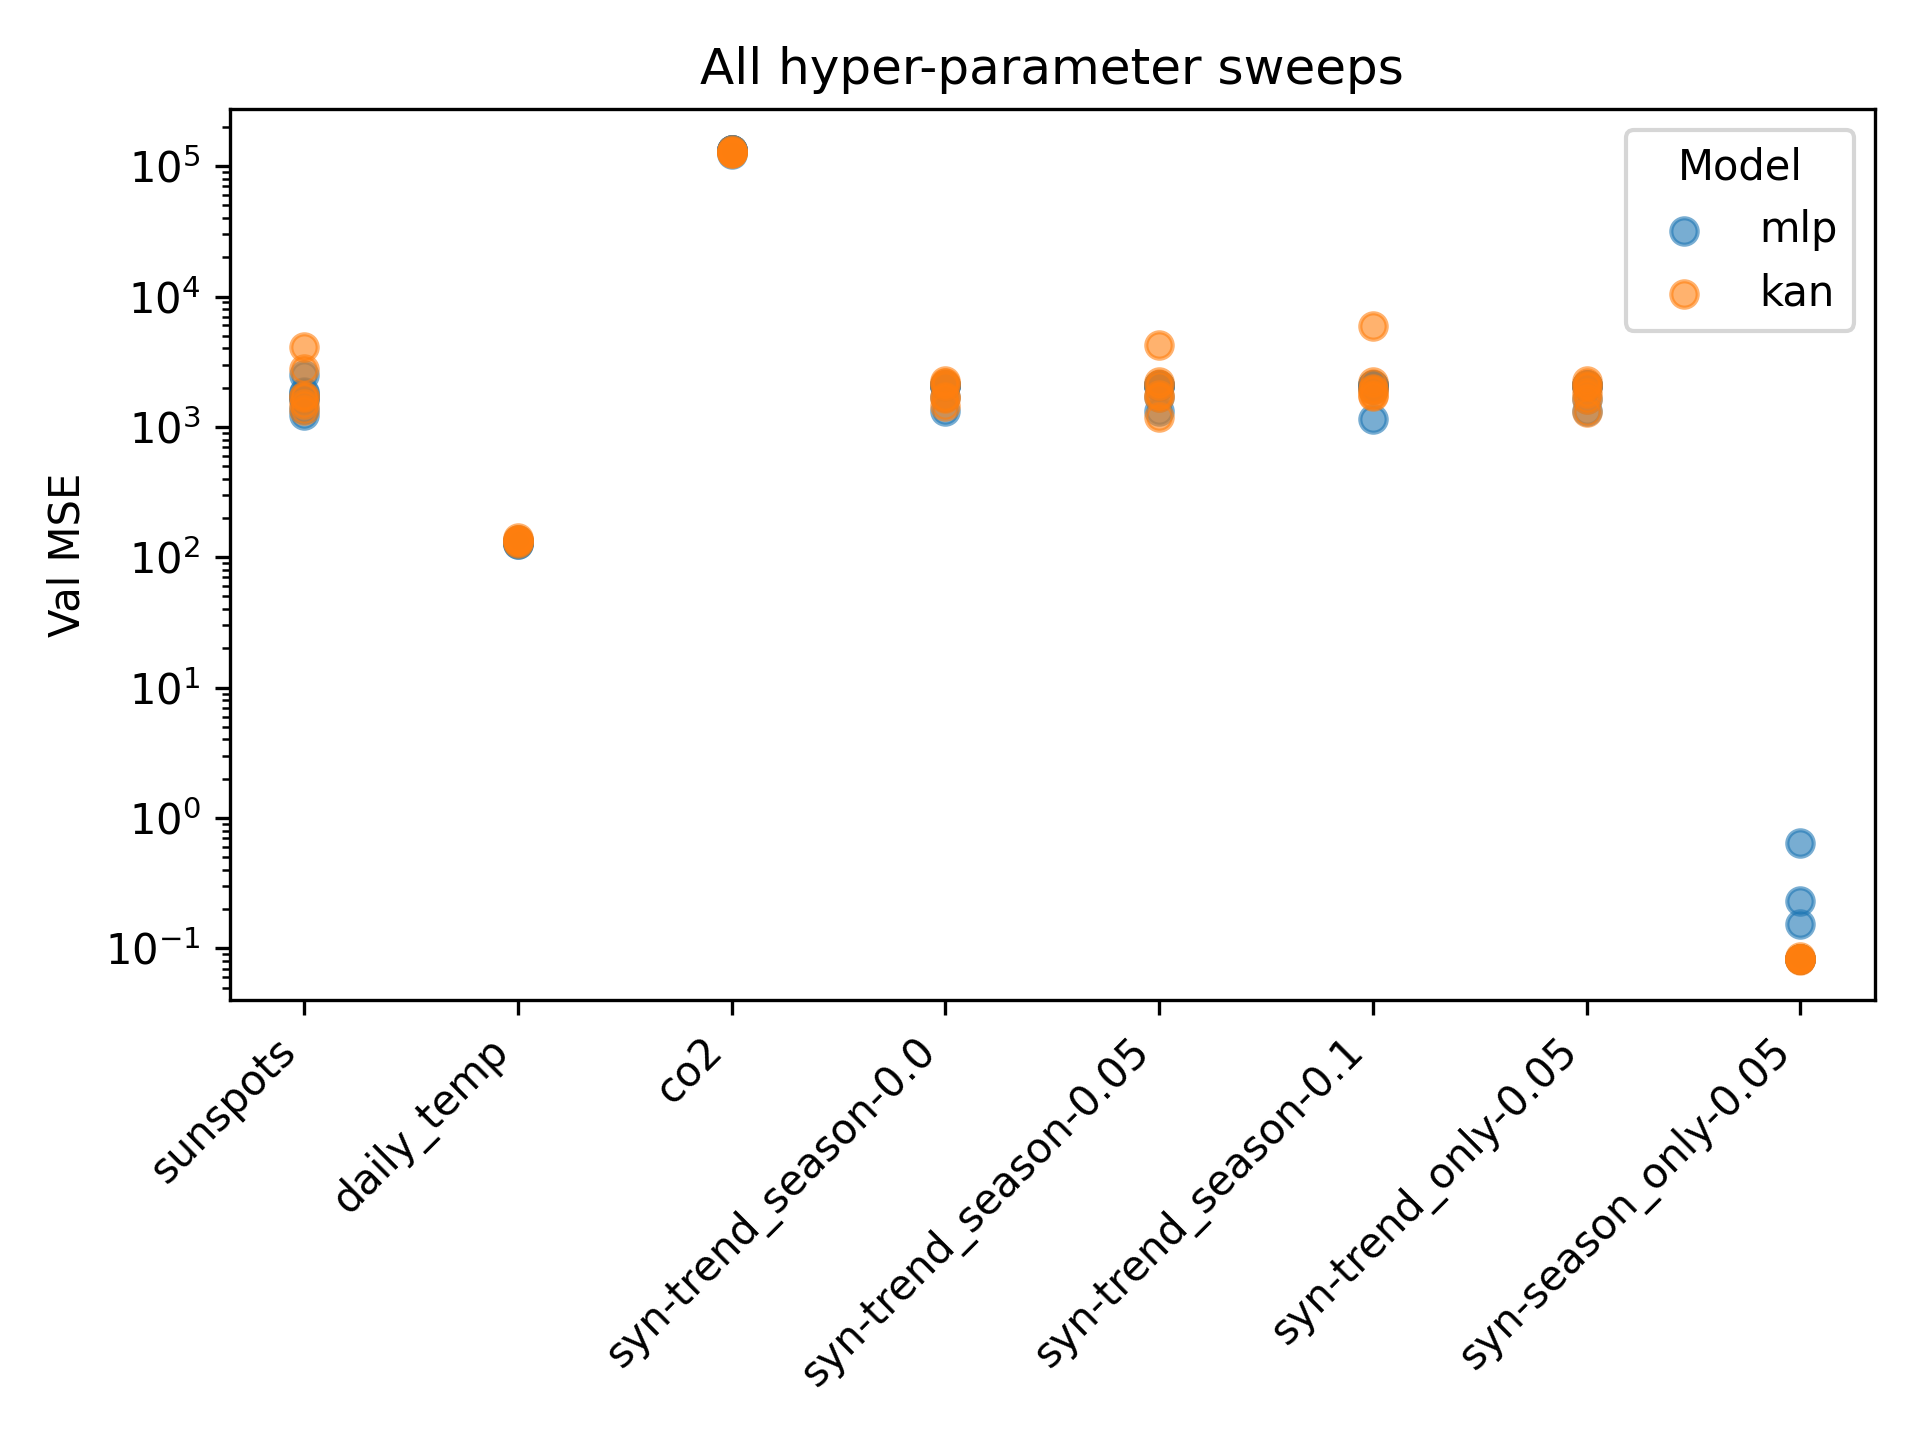
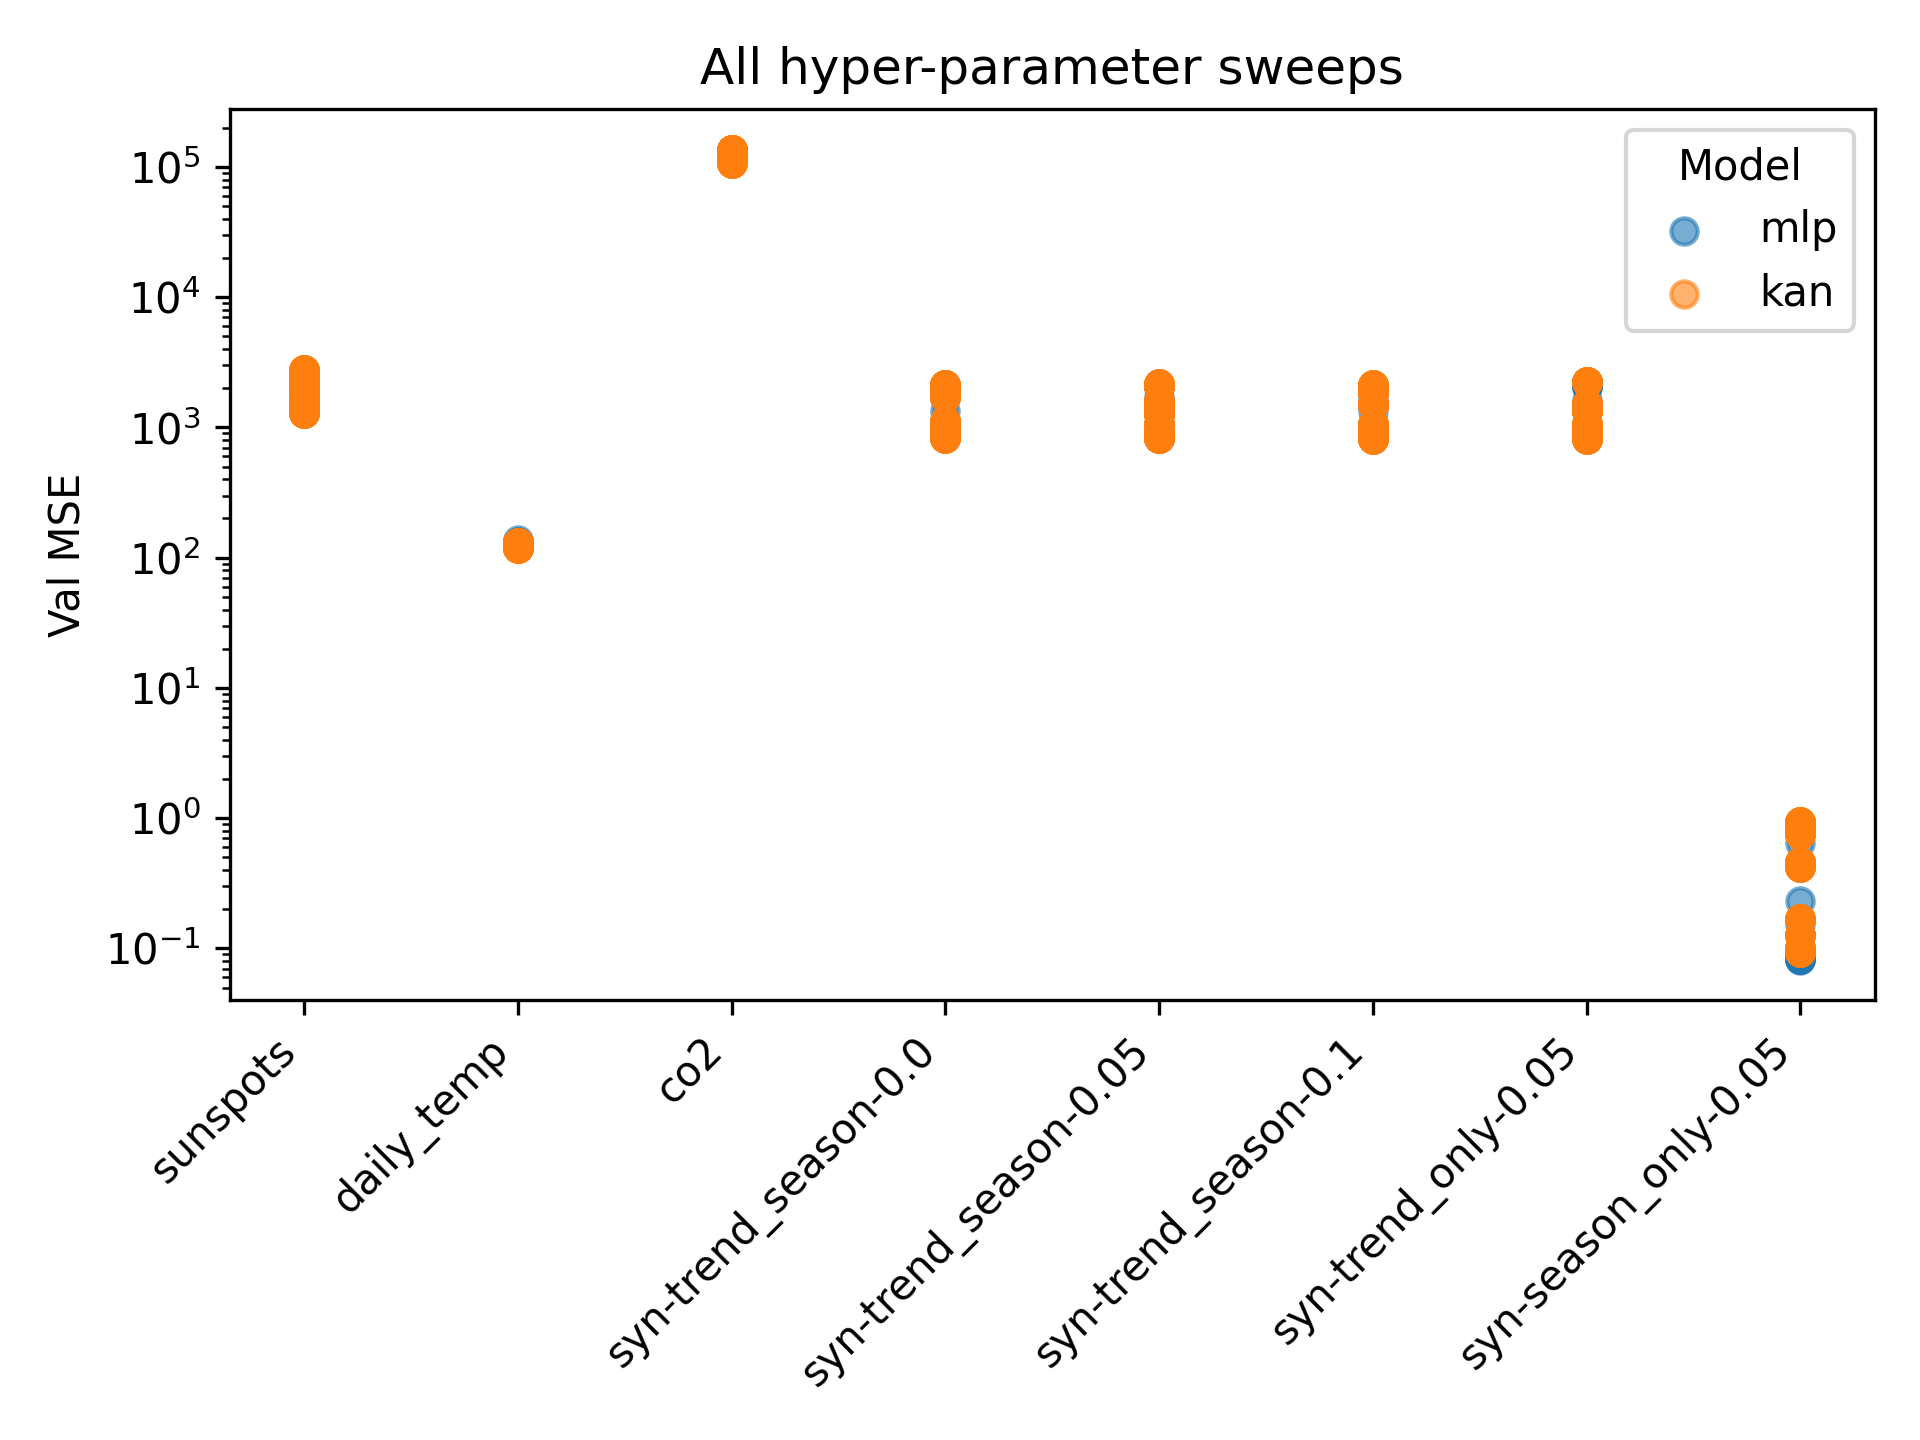
made code more readable, added more hps

diff --git a/scripts/grid_run.py b/scripts/grid_run.py
@@ -2,10 +2,12 @@ from pathlib import Path
 import json
 import numpy as np
 import pandas as pd
+import torch
+import seaborn as sns
+import matplotlib.pyplot as plt
 from sklearn.metrics import mean_squared_error
-from config.hyperparameters import (
-    INPUT_LEN, PRED_LEN, MLP_SEARCH, KAN_SEARCH
-)
+
+from config.hyperparameters import INPUT_LEN, PRED_LEN, MLP_SEARCH, KAN_SEARCH
 from config.datasets import REAL_DATASETS, SYN_SPECS
 from data_pipeline.real_data import load_small_dataset
 from data_pipeline.data_creation import load_synthetic
@@ -14,27 +16,30 @@ from data_pipeline.splits import chronological_split
 from models.mlp_model import MLP
 from kan import KAN
 from models.train_test import train_mlp, train_kan
-import torch 
-import seaborn as sns
-import matplotlib.pyplot as plt
 
 
-# ---------- helpers ---------------------------------------------------------
+# ---------- Helpers ---------------------------------------------------------
+
 def _load_dataset(name: str):
-    import pandas as pd
-
     if name in REAL_DATASETS:
         series = load_small_dataset(name).squeeze()
         return pd.DataFrame({"y": series})
-
     _, kind, noise = name.split("-", 2)
     return load_synthetic(kind=kind, noise_std=float(noise))
+
+def _normalize(X, y):
+    X_mean = X.mean(axis=0)
+    X_std = X.std(axis=0) + 1e-6
+    y_mean = y.mean()
+    y_std = y.std() + 1e-6
+    X_norm = (X - X_mean) / X_std
+    y_norm = (y - y_mean) / y_std
+    return X_norm, y_norm, X_mean, X_std, y_mean, y_std
 
 
 def _evaluate(model, X_te, y_te, y_mean, y_std):
     if hasattr(model, "eval") and callable(model.eval):
         model.eval()
-
     with torch.no_grad():
         preds = model(torch.as_tensor(X_te, dtype=torch.float32)).cpu().numpy()
     preds = preds * y_std + y_mean
@@ -47,96 +52,59 @@ def save_kan_activations(kan_model, save_path: Path):
         scale=0.5,
         varscale=1.0
     )
-    
 
-# ---------- main loop -------------------------------------------------------
-def main():
-    out_dir = Path(__file__).resolve().parents[1] / "results" / "batch"
-    out_dir.mkdir(parents=True, exist_ok=True)
+def run_mlp_search(X, y, y_mean, y_std, ds_name):
+    results = []
+    for hp in MLP_SEARCH:
+        (X_tr, y_tr), (X_val, y_val), (X_te, y_te) = chronological_split(X, y)
+        mlp = MLP([INPUT_LEN, *hp["hidden"], PRED_LEN])
+        print(f"Running {ds_name} | mlp | {hp}")
+        _, _, trained = train_mlp(mlp, X_tr, y_tr, X_val, y_val, epochs=hp["epochs"], lr=hp["lr"])
+        mse = _evaluate(trained, X_te, y_te, y_mean, y_std)
+        results.append({"dataset": ds_name, "model": "mlp", "mse": mse, "params": hp})
+    return results
 
-    datasets = (
-        REAL_DATASETS +
-        [f"syn-{kind}-{noise}" for (kind, noise) in SYN_SPECS]
-    )
 
-    rows = []
+def run_kan_search(X, y, y_mean, y_std, ds_name):
+    results = []
+    for hp in KAN_SEARCH:
+        (X_tr, y_tr), (X_val, y_val), (X_te, y_te) = chronological_split(X, y)
+        kan = KAN(
+            width=[INPUT_LEN, *hp["hidden"], PRED_LEN],
+            grid=hp["grid"],
+            k=hp["k"],
+            symbolic_enabled=False
+        )
+        print(f"Running {ds_name} | kan | {hp}")
+        _, _, trained = train_kan(
+            kan, X_tr, y_tr, X_val, y_val,
+            steps=hp["epochs"],
+            lr=hp["lr"],
+            lamb_l1=hp["lamb_l1"],
+            lamb_entropy=hp["lamb_entropy"]
+        )
+        trained.prune()
+        # ------------Saving splines (takes a lot of time)--------------
+        # hp_str = (
+        #     f"epochs_{hp['epochs']}_grid_{hp['grid']}_k_{hp['k']}_hidden_" +
+        #     "_".join(map(str, hp['hidden']))
+        # )
+        # save_path = out_dir / "activations" / ds_name / hp_str
+        # save_kan_activations(trained, save_path)
+        mse = _evaluate(trained, X_te, y_te, y_mean, y_std)
+        results.append({"dataset": ds_name, "model": "kan", "mse": mse, "params": hp})
+    return results
 
-    for ds_name in datasets:
-        df = _load_dataset(ds_name)
-        X, y = create_windows(df, input_len=INPUT_LEN, pred_len=PRED_LEN)
-        X_mean = X.mean(axis=0) # added normalization to combat NaN's by Adam, I suspect there was something wrong with the gradients
-        X_std = X.std(axis=0) + 1e-6
-        X = (X - X_mean) / X_std
-        y_mean = y.mean()
-        y_std = y.std() + 1e-6
-        y = (y - y_mean) / y_std
-        # ---------- MLP sweep ----------
-        for hp in MLP_SEARCH:
-            (X_tr, y_tr), (X_val, y_val), (X_te, y_te) = chronological_split(X, y)
 
-            mlp = MLP([INPUT_LEN, *hp["hidden"], PRED_LEN])
-            print(f"Running {ds_name} | mlp | {hp}")
-            _, _, trained = train_mlp(
-                mlp, X_tr, y_tr, X_val, y_val,
-                epochs=hp["epochs"], lr=hp["lr"]
-            )
-            mse = _evaluate(trained, X_te, y_te, y_mean, y_std)
-
-            rows.append({
-                "dataset": ds_name,
-                "model":   "mlp",
-                "mse":     mse,
-                "params":  hp
-            })
-
-        # ---------- KAN sweep ----------
-        for hp in KAN_SEARCH:
-            (X_tr, y_tr), (X_val, y_val), (X_te, y_te) = chronological_split(X, y)
-
-            kan = KAN(
-                width=[INPUT_LEN, *hp["hidden"], PRED_LEN],
-                grid=hp["grid"],
-                k=hp["k"],
-                symbolic_enabled=False
-            )
-            print(f"Running {ds_name} | kan | {hp}")
-            _, _, trained = train_kan(
-                kan, X_tr, y_tr, X_val, y_val,
-                steps=hp["epochs"]
-            )
-            trained.prune()
-            #------------Saving splines (takes a lot of time)--------------
-            # hp_str = f"epochs_{hp['epochs']}_grid_{hp['grid']}_k_{hp['k']}_hidden_" + "_".join(map(str, hp['hidden']))
-            # save_path = out_dir / "activations" / ds_name / hp_str
-            # save_path.mkdir(parents=True, exist_ok=True)
-            # save_kan_activations(trained, save_path)
-
-            mse = _evaluate(trained, X_te, y_te, y_mean, y_std)
-
-            rows.append({
-                "dataset": ds_name,
-                "model":   "kan",
-                "mse":     mse,
-                "params":  hp
-            })
-
-    # ---------- save structured results -------------------------------------
-    df = pd.DataFrame(rows)
-    df.to_csv(out_dir / "grid_results.csv", index=False)
-
-    # one *_BEST.json per (dataset, model)
+def save_best_results(df, out_dir):
     for (ds, mdl), grp in df.groupby(["dataset", "model"]):
         best = grp.sort_values("mse").iloc[0].to_dict()
         with open(out_dir / f"{ds}_{mdl}_BEST.json", "w") as f:
             json.dump(best, f, indent=2)
 
-    # 1) BEST result per (dataset, model)  ────────────────────────────────
-    best_df = (
-        df.groupby(["dataset", "model"])["mse"]
-          .min()                       # best (lowest) MSE
-          .unstack()                  # cols = model, rows = dataset
-          .sort_index()               # keep datasets in alpha order
-    )
+
+def plot_results(df, out_dir):
+    best_df = df.groupby(["dataset", "model"])["mse"].min().unstack().sort_index()
 
     ax = best_df.plot(kind="bar", rot=45, log=True)
     ax.set_ylabel("Val MSE  ↓ better")
@@ -145,13 +113,10 @@ def main():
     plt.savefig(out_dir / "grid_results_best.png", dpi=300)
     plt.close()
 
-    # 2) *All* runs at once  ──────────────────────────────────────────────
     fig, ax = plt.subplots()
     for model in df["model"].unique():
         subset = df[df["model"] == model]
-        ax.scatter(subset["dataset"], subset["mse"],
-                label=model, alpha=0.6, s=40)
-
+        ax.scatter(subset["dataset"], subset["mse"], label=model, alpha=0.6, s=40)
     ax.set_ylabel("Val MSE")
     ax.set_title("All hyper-parameter sweeps")
     ax.set_yscale("log")
@@ -161,23 +126,38 @@ def main():
     plt.savefig(out_dir / "grid_results_all.png", dpi=300)
     plt.close()
 
-    ratio = (
-        best_df["kan"] / best_df["mlp"]
-    ).rename("KAN ÷ MLP")
-
+    ratio = (best_df["kan"] / best_df["mlp"]).rename("KAN ÷ MLP")
     plt.figure(figsize=(6, len(ratio) * 0.4))
-    sns.heatmap(
-        ratio.to_frame().T,
-        annot=True,
-        fmt=".2f",
-        cmap="RdYlGn_r",
-        cbar=False
-    )
+    sns.heatmap(ratio.to_frame().T, annot=True, fmt=".2f", cmap="RdYlGn_r", cbar=False)
     plt.yticks(rotation=0)
     plt.title("Relative val MSE (KAN ÷ MLP)")
     plt.tight_layout()
     plt.savefig(out_dir / "grid_results_ratio_heatmap.png", dpi=300)
     plt.close()
+
+
+# ---------- Main Script -----------------------------------------------------
+
+def main():
+    out_dir = Path(__file__).resolve().parents[1] / "results" / "batch"
+    out_dir.mkdir(parents=True, exist_ok=True)
+
+    datasets = REAL_DATASETS + [f"syn-{kind}-{noise}" for (kind, noise) in SYN_SPECS]
+    all_results = []
+
+    for ds_name in datasets:
+        df = _load_dataset(ds_name)
+        X, y = create_windows(df, input_len=INPUT_LEN, pred_len=PRED_LEN)
+        X, y, X_mean, X_std, y_mean, y_std = _normalize(X, y)
+
+        all_results += run_mlp_search(X, y, y_mean, y_std, ds_name)
+        all_results += run_kan_search(X, y, y_mean, y_std, ds_name)
+
+    df = pd.DataFrame(all_results)
+    df.to_csv(out_dir / "grid_results.csv", index=False)
+
+    save_best_results(df, out_dir)
+    plot_results(df, out_dir)
 
 
 if __name__ == "__main__":

diff --git a/models/train_test.py b/models/train_test.py
@@ -28,12 +28,19 @@ def train_mlp(model, Xtr, ytr, Xval, yval, *, epochs, lr):
         val_losses.append(v)
     return tr_losses, val_losses, model.cpu()
 
-def train_kan(model, Xtr, ytr, Xval, yval, *, steps):
+def train_kan(model, Xtr, ytr, Xval, yval, *, steps, lr, lamb_l1, lamb_entropy):
     dataset = {
         "train_input": torch.tensor(Xtr, dtype=torch.float32),
         "train_label": torch.tensor(ytr, dtype=torch.float32),
         "test_input":  torch.tensor(Xval, dtype=torch.float32),
         "test_label":  torch.tensor(yval, dtype=torch.float32)
     }
-    model.fit(dataset=dataset, opt=KAN_OPT, steps=steps, lr=0.01)
+    model.fit(
+        dataset=dataset,
+        opt=KAN_OPT,
+        steps=steps,
+        lr=lr,
+        lamb_l1=lamb_l1,
+        lamb_entropy=lamb_entropy
+    )
     return [], [], model

diff --git a/config/hyperparameters.py b/config/hyperparameters.py
@@ -22,10 +22,13 @@ KAN_SEARCH = ParameterGrid({
     "grid":  [5, 10],
     "hidden": [
         [10],
-        [5,  5],
+        [5, 5],
         [10, 10]
     ],
-    "epochs": [100],
+    "epochs": [20],
     "k":     [3],
     "opt":   ["Adam"],
+    "lr":    [1e-2, 1e-3],
+    "lamb_l1": [0.0, 1e-4, 1e-2],
+    "lamb_entropy": [0.0, 1e-4, 1e-2],
 })
